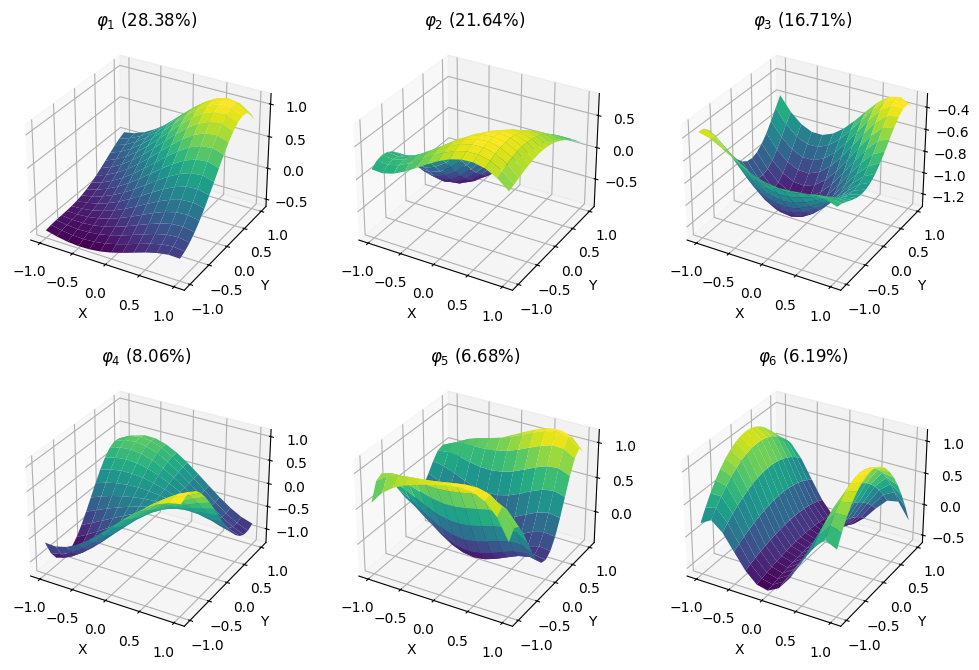
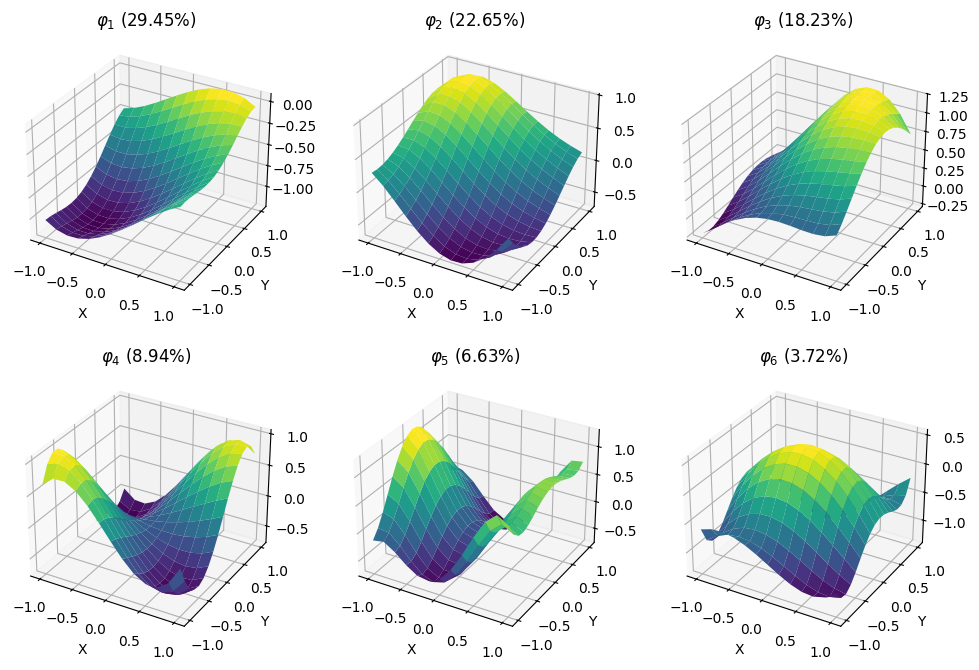
small fixes

diff --git a/_posts/2024-08-15-legendre.md b/_posts/2024-08-15-legendre.md
@@ -368,7 +368,7 @@ class LegendreProjection:
                 self.order.append([j, i - j])
         
         self.B = len(self.ψ_all)
-        self.Ψ = lambda x,y: np.array([self.ψ_all[i](x,y) for i in range(self.B)])
+        self.Ψ = lambda x, y: np.array([self.ψ_all[i](x, y) for i in range(self.B)])
         self.x_grid = x_grid
         self.y_grid = y_grid
     
@@ -399,7 +399,6 @@ class LegendreProjection:
         for i in range(len(self.ψ_all)):
             retval += coeffs[i + 1] * self.ψ_all[i](self.x_grid, self.y_grid)
         return retval
-
 ```
 
 We will use $m=4$, which translates into $B=15$.
@@ -457,15 +456,16 @@ class FDAProjection:
         self.mean = mean
         A_zero_mean = A - A_mean
 
-        A2 = 1.0 / A_zero_mean.shape[1] * A_zero_mean.T @ A_zero_mean
+        A2 = 1.0 / A_zero_mean.shape[0] * A_zero_mean.T @ A_zero_mean
         self.K = A2.shape[0]
-
-        self.λ_all, c_all = np.linalg.eig(A2)
+        if (cond := np.linalg.cond(A2)) > 1_000:
+            print(f'Warning: matrix has condition number {cond}')
+        self.λ_all, self.c_all = np.linalg.eig(A2)
 
         self.φ_all = []
 
         for i in range(len(self.λ_all)):
-            self.φ_all.append(lambda x,y,i=i : c_all[0,i] + np.sum([c_all[j + 1, i] * self.legendre.ψ_all[j](x,y) for j in range(len(self.legendre.ψ_all))], axis=0))
+            self.φ_all.append(lambda x,y,i=i : self.c_all[0,i] + np.sum([self.c_all[j + 1, i] * self.legendre.ψ_all[j](x,y) for j in range(len(self.legendre.ψ_all))], axis=0))
     
         return A
     
@@ -478,7 +478,7 @@ class FDAProjection:
         for i in range(self.K):
             basis_value[:,i] = self.φ_all[i](X_flat, Y_flat)
         
-        mean = self.mean(X_flat, Y_flat).reshape(-1,1)
+        mean = self.mean(X_flat, Y_flat).reshape(-1, 1)
         Z_flat_zero_mean = Z_flat - mean.flatten()
         reg = LinearRegression(fit_intercept=False).fit(basis_value, Z_flat_zero_mean)
         return reg.coef_
@@ -542,5 +542,25 @@ axes[1, 2].plot_surface(X, Y, fda.inverse_transform(fda.transform(V_hat_all[10])
 
     
 ![png](/assets/images/legendre/legendre-6.png)
+    
+
+
+To finish, we compare the variance given by the eigenvalues $\lambda_\ell$ of the $\frac{1}{T} A^T A$ matrix and the actual variance of the projected components. They should be similar, and they appear to be.
+
+
+```python
+plt.figure(figsize=(8, 4))
+plt.plot(fda.λ_all, label='predicted')
+plt.plot(np.var(coeffs, axis=0), label='actual')
+plt.legend()
+plt.xlabel('Component')
+plt.ylabel('Variance')
+plt.title('Training Dataset')
+plt.grid();
+```
+
+
+    
+![png](/assets/images/legendre/legendre-7.png)
     
 
